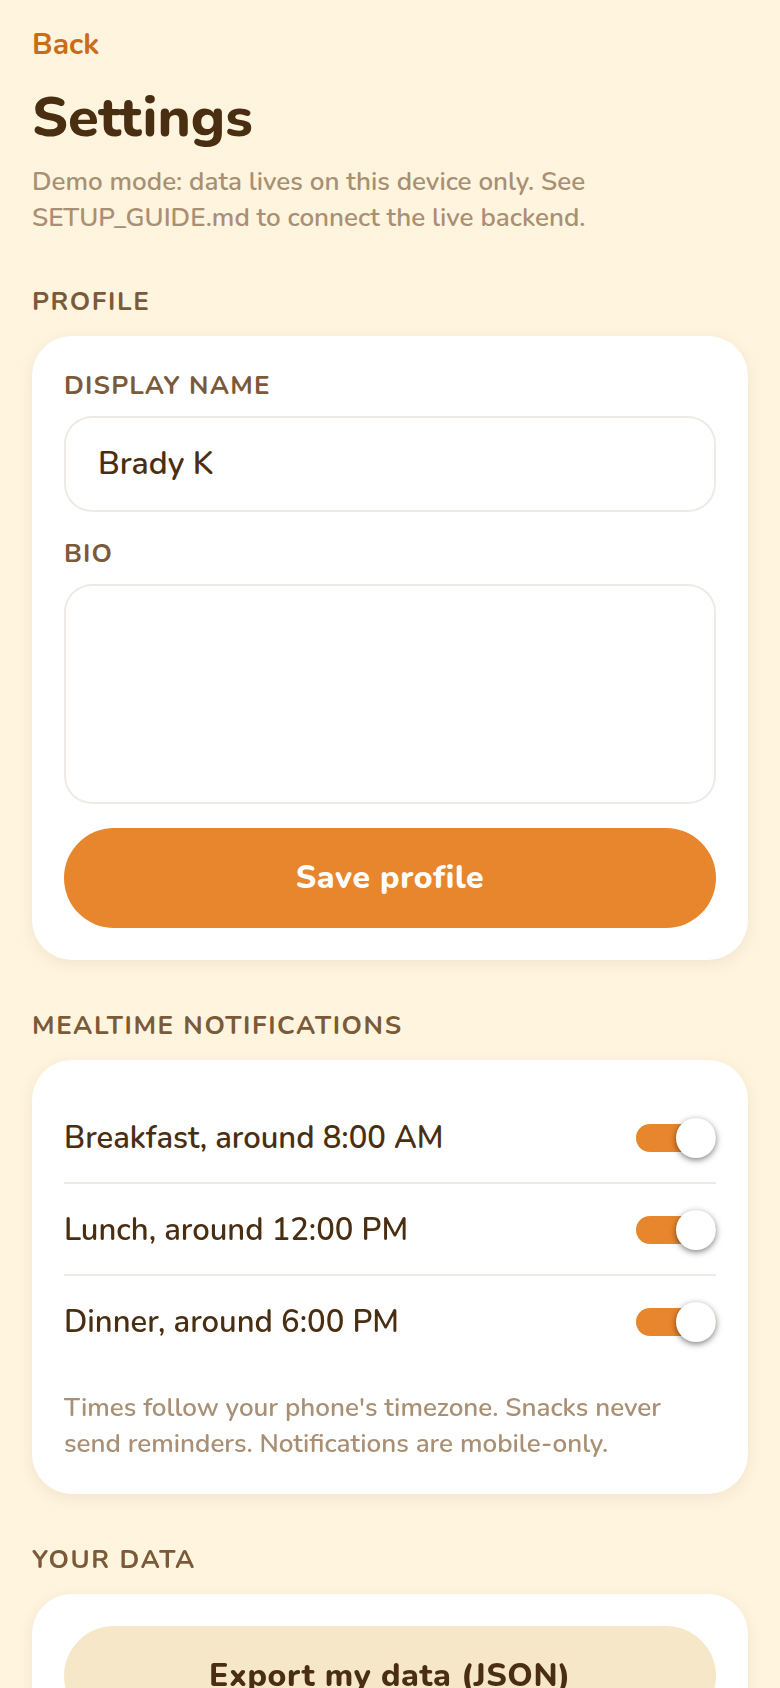
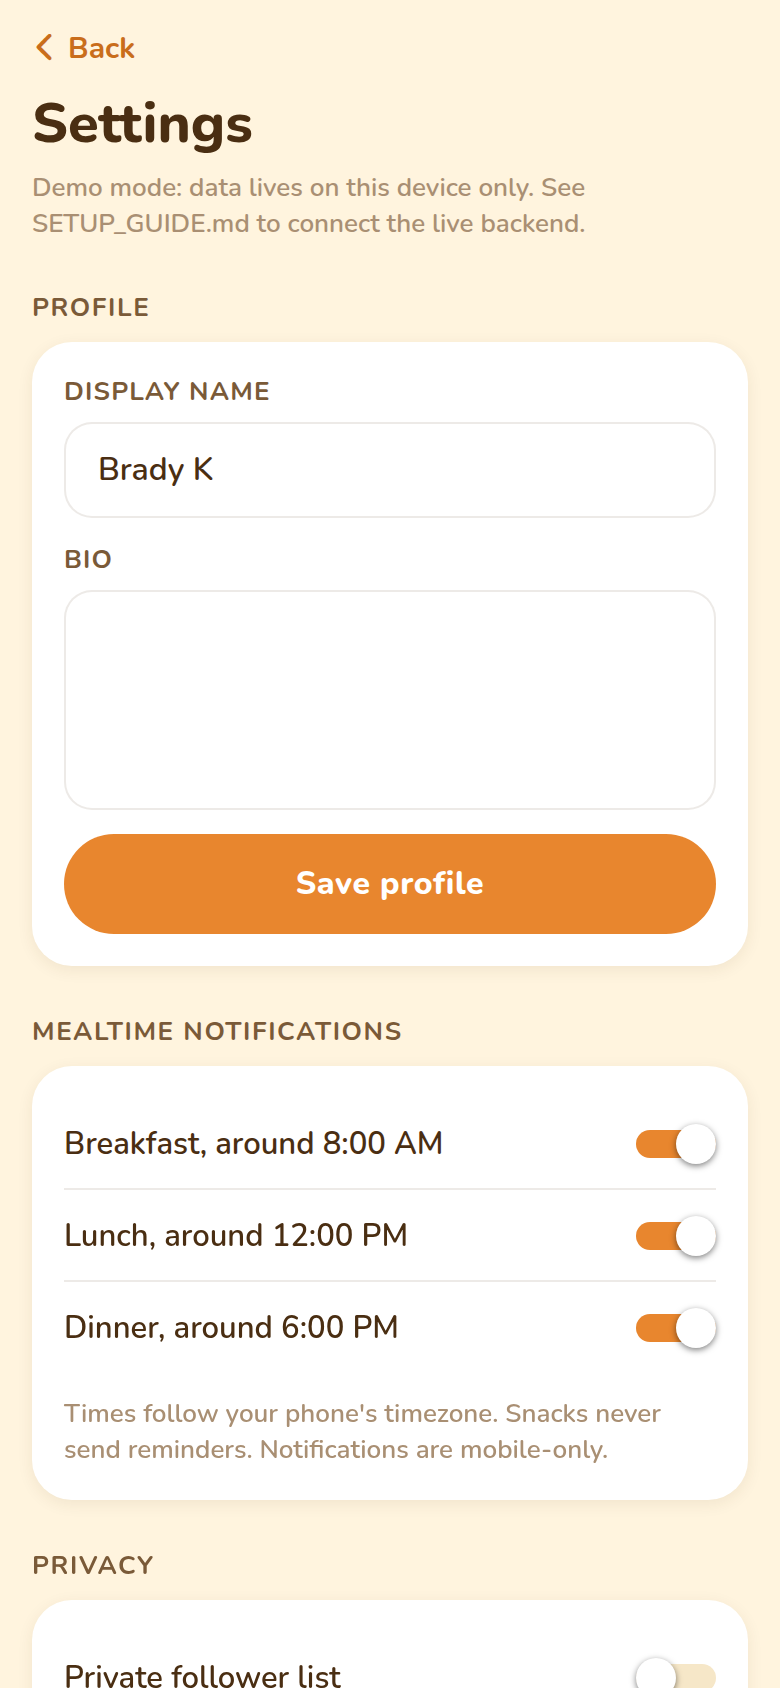
Fix bio/profile save; remove export button; add back arrow to Settings
- Bio (and display name) now persist and show immediately: MockService
  updateProfile returns a fresh user object instead of mutating in place, so
  React re-renders; ProfileScreen reads its own profile from live context so
  a saved bio appears without a reload.
- Removed the 'Export my data' button from Settings (kept exportMyData in the
  service for internal use); renamed the section to 'Account'.
- Settings back control now shows a chevron-back arrow plus 'Back', matching
  the rest of the app.
- Verified on web: bio saves and displays; export button gone; back arrow shown.

Claude-Session: https://claude.ai/code/session_01RApoMospK1fVHQW545L4mR

diff --git a/src/screens/SettingsScreen.tsx b/src/screens/SettingsScreen.tsx
@@ -4,12 +4,12 @@ import {
   Platform,
   Pressable,
   ScrollView,
-  Share,
   StyleSheet,
   Switch,
   Text,
   View,
 } from 'react-native';
+import { Ionicons } from '@expo/vector-icons';
 import { useSafeAreaInsets } from 'react-native-safe-area-context';
 import { DEMO_MODE } from '../config';
 import { Button, Card, Input, Muted, ScreenTitle } from '../components/ui';
@@ -27,7 +27,6 @@ export function SettingsScreen({ navigation }: any) {
   const [bio, setBio] = useState(user?.bio ?? '');
   const [followsPrivate, setFollowsPrivate] = useState(Boolean(user?.follows_private));
   const [saving, setSaving] = useState(false);
-  const [exporting, setExporting] = useState(false);
   const [confirmDelete, setConfirmDelete] = useState(false);
 
   const toggleFollowsPrivate = async () => {
@@ -49,27 +48,6 @@ export function SettingsScreen({ navigation }: any) {
 
   const togglePref = (key: keyof NotificationPrefs) => {
     setPrefs({ ...prefs, [key]: !prefs[key] });
-  };
-
-  const exportData = async () => {
-    setExporting(true);
-    try {
-      const json = await svc.exportMyData();
-      if (Platform.OS === 'web') {
-        // download as a file in the browser
-        const blob = new Blob([json], { type: 'application/json' });
-        const url = URL.createObjectURL(blob);
-        const a = document.createElement('a');
-        a.href = url;
-        a.download = 'nibl-export.json';
-        a.click();
-        URL.revokeObjectURL(url);
-      } else {
-        await Share.share({ message: json, title: 'My nibl data' });
-      }
-    } finally {
-      setExporting(false);
-    }
   };
 
   const deleteAccount = async () => {
@@ -98,7 +76,8 @@ export function SettingsScreen({ navigation }: any) {
       contentContainerStyle={[styles.scroll, { paddingTop: insets.top + spacing.md }]}
     >
       <View style={styles.headerRow}>
-        <Pressable onPress={() => navigation.goBack()} hitSlop={10}>
+        <Pressable onPress={() => navigation.goBack()} hitSlop={10} style={styles.backBtn}>
+          <Ionicons name="chevron-back" size={20} color={colors.amberDark} />
           <Text style={styles.back}>Back</Text>
         </Pressable>
       </View>
@@ -155,15 +134,8 @@ export function SettingsScreen({ navigation }: any) {
         </Muted>
       </Card>
 
-      <Text style={styles.section}>Your data</Text>
+      <Text style={styles.section}>Account</Text>
       <Card>
-        <Button
-          title={exporting ? 'Exporting…' : 'Export my data (JSON)'}
-          variant="secondary"
-          onPress={exportData}
-          loading={exporting}
-        />
-        <View style={{ height: spacing.md }} />
         {confirmDelete ? (
           <View>
             <Text style={styles.dangerText}>
@@ -237,6 +209,13 @@ const styles = StyleSheet.create({
   },
   headerRow: {
     marginBottom: spacing.sm,
+  },
+  backBtn: {
+    flexDirection: 'row',
+    alignItems: 'center',
+    alignSelf: 'flex-start',
+    gap: 2,
+    marginLeft: -4,
   },
   back: {
     fontFamily: fonts.bold,

diff --git a/src/screens/ProfileScreen.tsx b/src/screens/ProfileScreen.tsx
@@ -29,7 +29,10 @@ export function ProfileScreen({ navigation, route }: any) {
   const isMe = userId === me?.id;
   const listRef = useRef<FlatList<Post>>(null);
 
-  const [profile, setProfile] = useState<User | null>(isMe ? me : null);
+  const [otherProfile, setOtherProfile] = useState<User | null>(null);
+  // For my own profile, read straight from live context so a saved bio /
+  // name shows the moment Settings updates it.
+  const profile = isMe ? me : otherProfile;
   const [posts, setPosts] = useState<Post[]>([]);
   const [streak, setStreak] = useState<Streak | null>(null);
   const [counts, setCounts] = useState({ followers: 0, following: 0 });
@@ -65,11 +68,9 @@ export function ProfileScreen({ navigation, route }: any) {
       setStreak(s);
       setCounts(c);
       setFollowing(followingIds.includes(userId));
-      if (isMe) {
-        setProfile(me);
-      } else {
+      if (!isMe) {
         const all = await svc.listUsers();
-        setProfile(all.find((u) => u.id === userId) ?? null);
+        setOtherProfile(all.find((u) => u.id === userId) ?? null);
       }
     } finally {
       setLoading(false);

diff --git a/src/services/mock/mockService.ts b/src/services/mock/mockService.ts
@@ -204,9 +204,13 @@ export class MockService implements DataService {
   ): Promise<User> {
     const db = await this.load();
     const me = await this.me();
-    Object.assign(me, patch);
+    // Replace with a NEW object (not an in-place mutation) so React sees a
+    // fresh reference and re-renders the profile after a save.
+    const updated: User = { ...me, ...patch };
+    const idx = db.users.findIndex((u) => u.id === me.id);
+    db.users[idx] = updated;
     await this.save();
-    return me;
+    return updated;
   }
 
   async listUsers(query?: string): Promise<User[]> {
